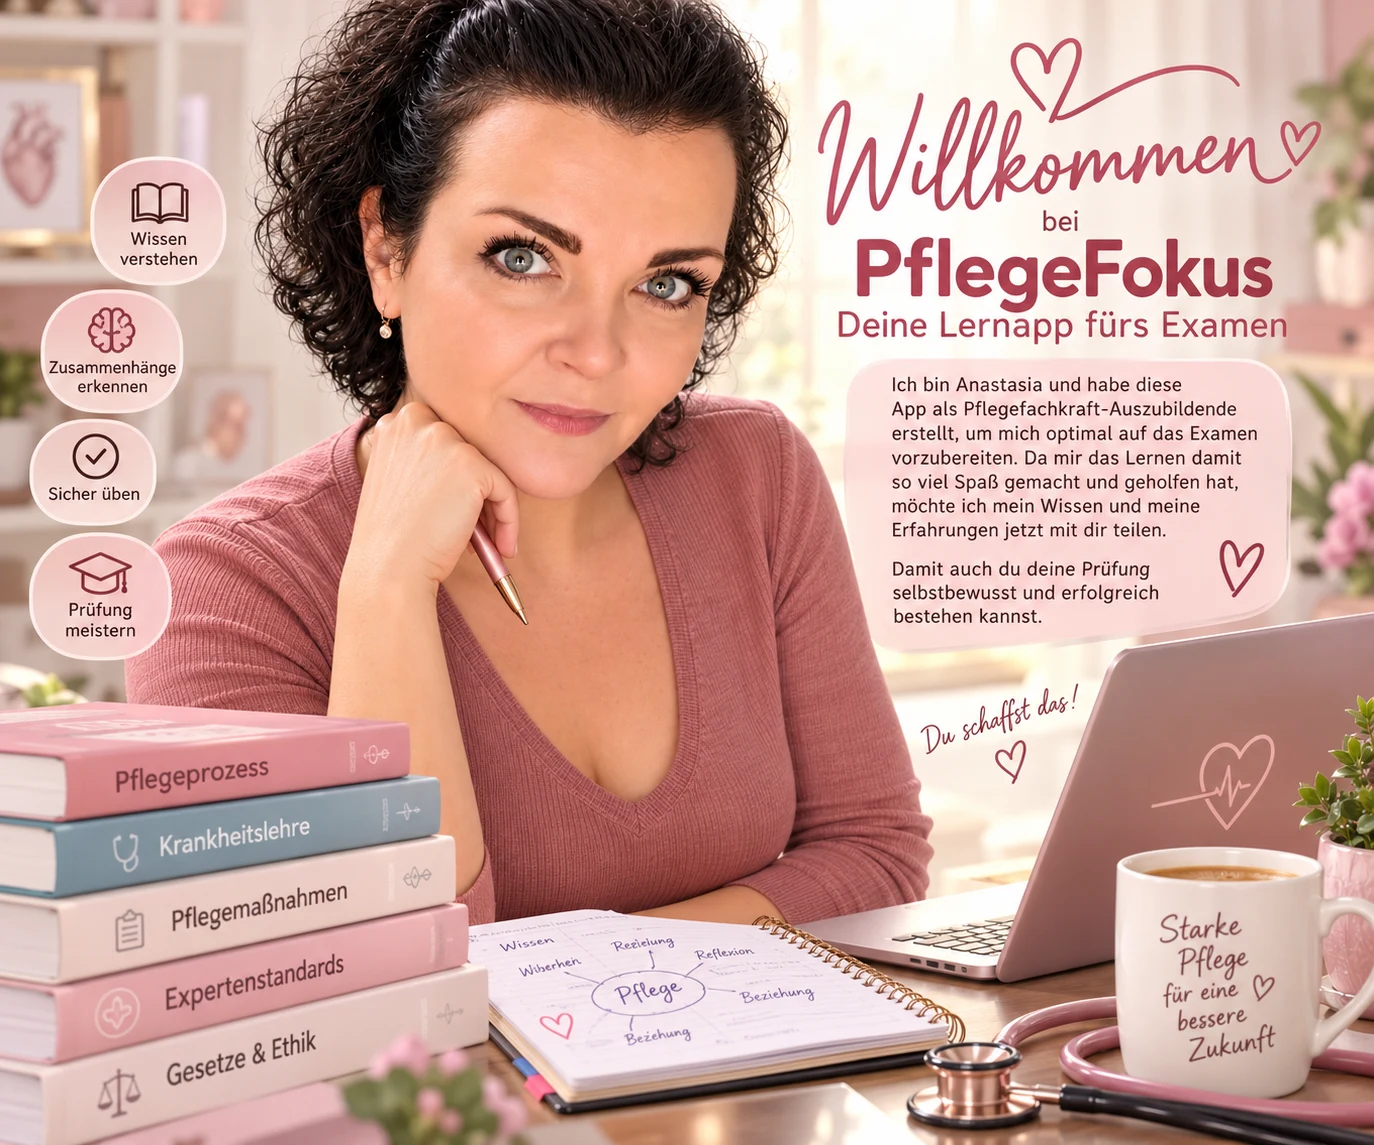
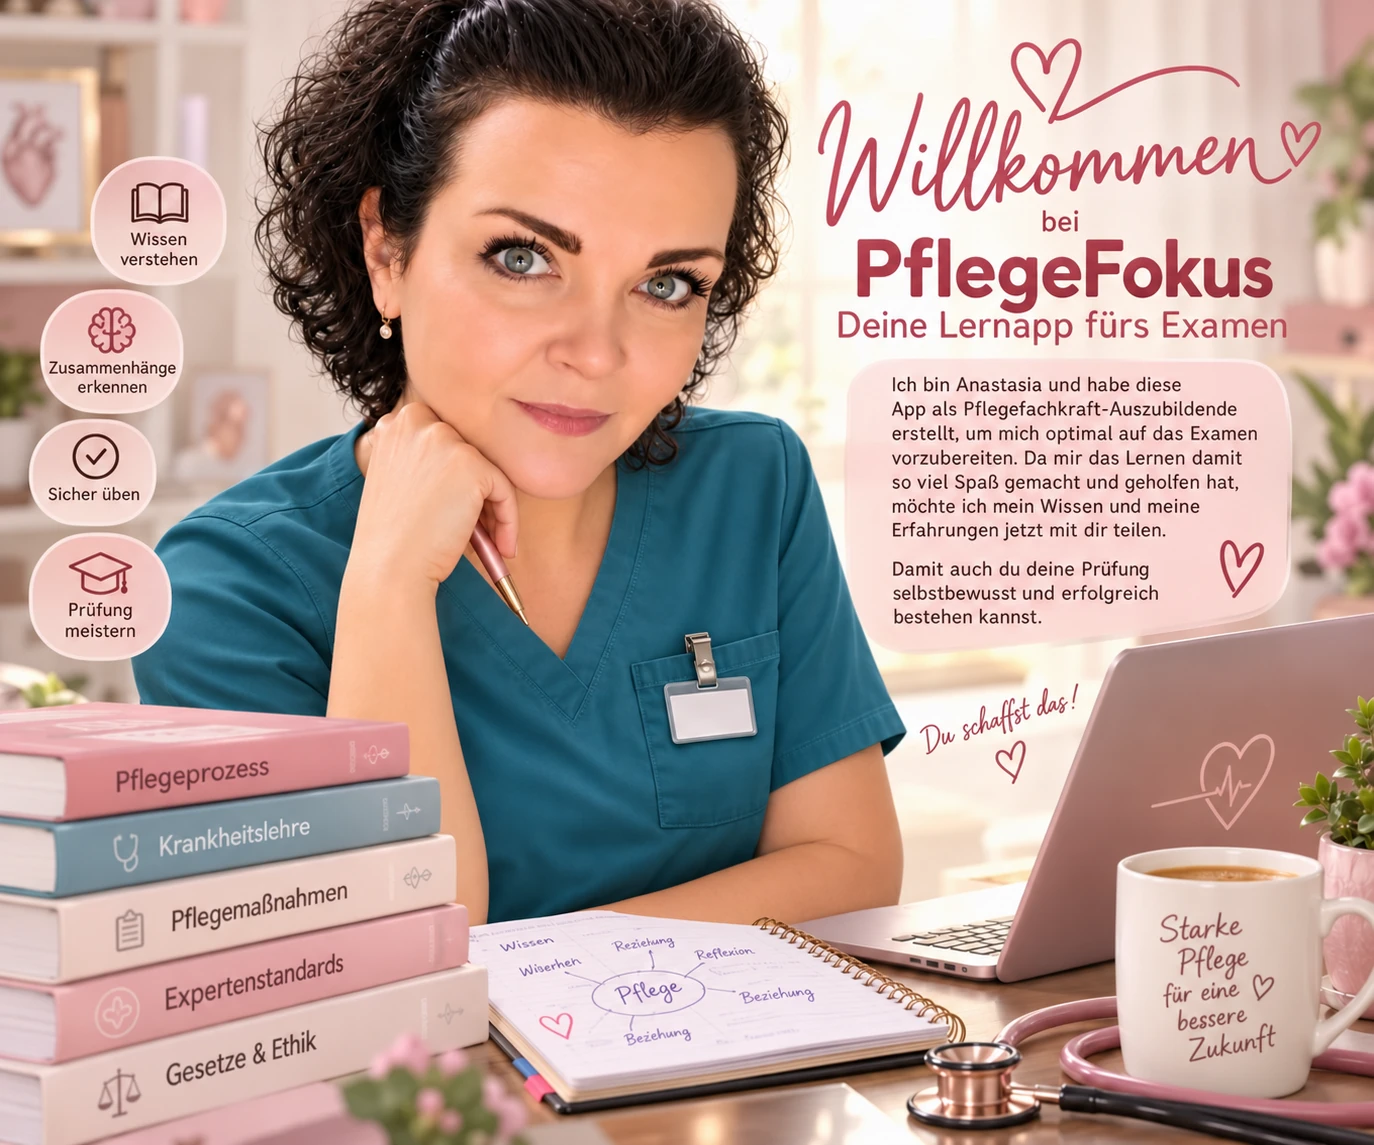
Show Anastasia in clinical nursing uniform on homepage

diff --git a/sw.js b/sw.js
@@ -1,1 +1,1 @@
-const CACHE='pflegefokus-v28-visible-welcome-20261107';const ASSETS=['./','./index.html','./manifest.webmanifest','./icon.svg','./cloud-config.js','./design.css?v=9','./assets/pflegefokus-willkommen.webp','./library.css?v=9','./disease-library.js?v=3','./library.js?v=11','./assets/atmung-schema.svg','./assets/haut-schema.svg','./glossary.js?v=11','./exam-practice.html','./exam-practice.js?v=7','./learning-upgrade.js?v=4','./learning-expansion.js?v=1','./visual-library.js?v=15','./visual-library.css?v=12','./assets/anastasia-pflege-illustration.svg','./assets/heart-study.webp','./assets/lung-study.webp','./assets/glucose-study.webp'];self.addEventListener('install',event=>{event.waitUntil(caches.open(CACHE).then(cache=>cache.addAll(ASSETS)).then(()=>self.skipWaiting()))});self.addEventListener('activate',event=>{event.waitUntil(caches.keys().then(keys=>Promise.all(keys.filter(k=>k!==CACHE).map(k=>caches.delete(k)))).then(()=>self.clients.claim()))});self.addEventListener('fetch',event=>{if(event.request.method!=='GET'||new URL(event.request.url).origin!==self.location.origin)return;event.respondWith(fetch(event.request).then(response=>{if(response.ok){const copy=response.clone();caches.open(CACHE).then(cache=>cache.put(event.request,copy))}return response}).catch(()=>caches.match(event.request).then(cached=>cached||(event.request.mode==='navigate'?caches.match('./index.html'):undefined))))});
+const CACHE='pflegefokus-v29-clinic-portrait-20261107';const ASSETS=['./','./index.html','./manifest.webmanifest','./icon.svg','./cloud-config.js','./design.css?v=9','./assets/pflegefokus-willkommen.webp','./library.css?v=9','./disease-library.js?v=3','./library.js?v=11','./assets/atmung-schema.svg','./assets/haut-schema.svg','./glossary.js?v=11','./exam-practice.html','./exam-practice.js?v=7','./learning-upgrade.js?v=4','./learning-expansion.js?v=1','./visual-library.js?v=15','./visual-library.css?v=12','./assets/anastasia-pflege-illustration.svg','./assets/heart-study.webp','./assets/lung-study.webp','./assets/glucose-study.webp'];self.addEventListener('install',event=>{event.waitUntil(caches.open(CACHE).then(cache=>cache.addAll(ASSETS)).then(()=>self.skipWaiting()))});self.addEventListener('activate',event=>{event.waitUntil(caches.keys().then(keys=>Promise.all(keys.filter(k=>k!==CACHE).map(k=>caches.delete(k)))).then(()=>self.clients.claim()))});self.addEventListener('fetch',event=>{if(event.request.method!=='GET'||new URL(event.request.url).origin!==self.location.origin)return;event.respondWith(fetch(event.request).then(response=>{if(response.ok){const copy=response.clone();caches.open(CACHE).then(cache=>cache.put(event.request,copy))}return response}).catch(()=>caches.match(event.request).then(cached=>cached||(event.request.mode==='navigate'?caches.match('./index.html'):undefined))))});
